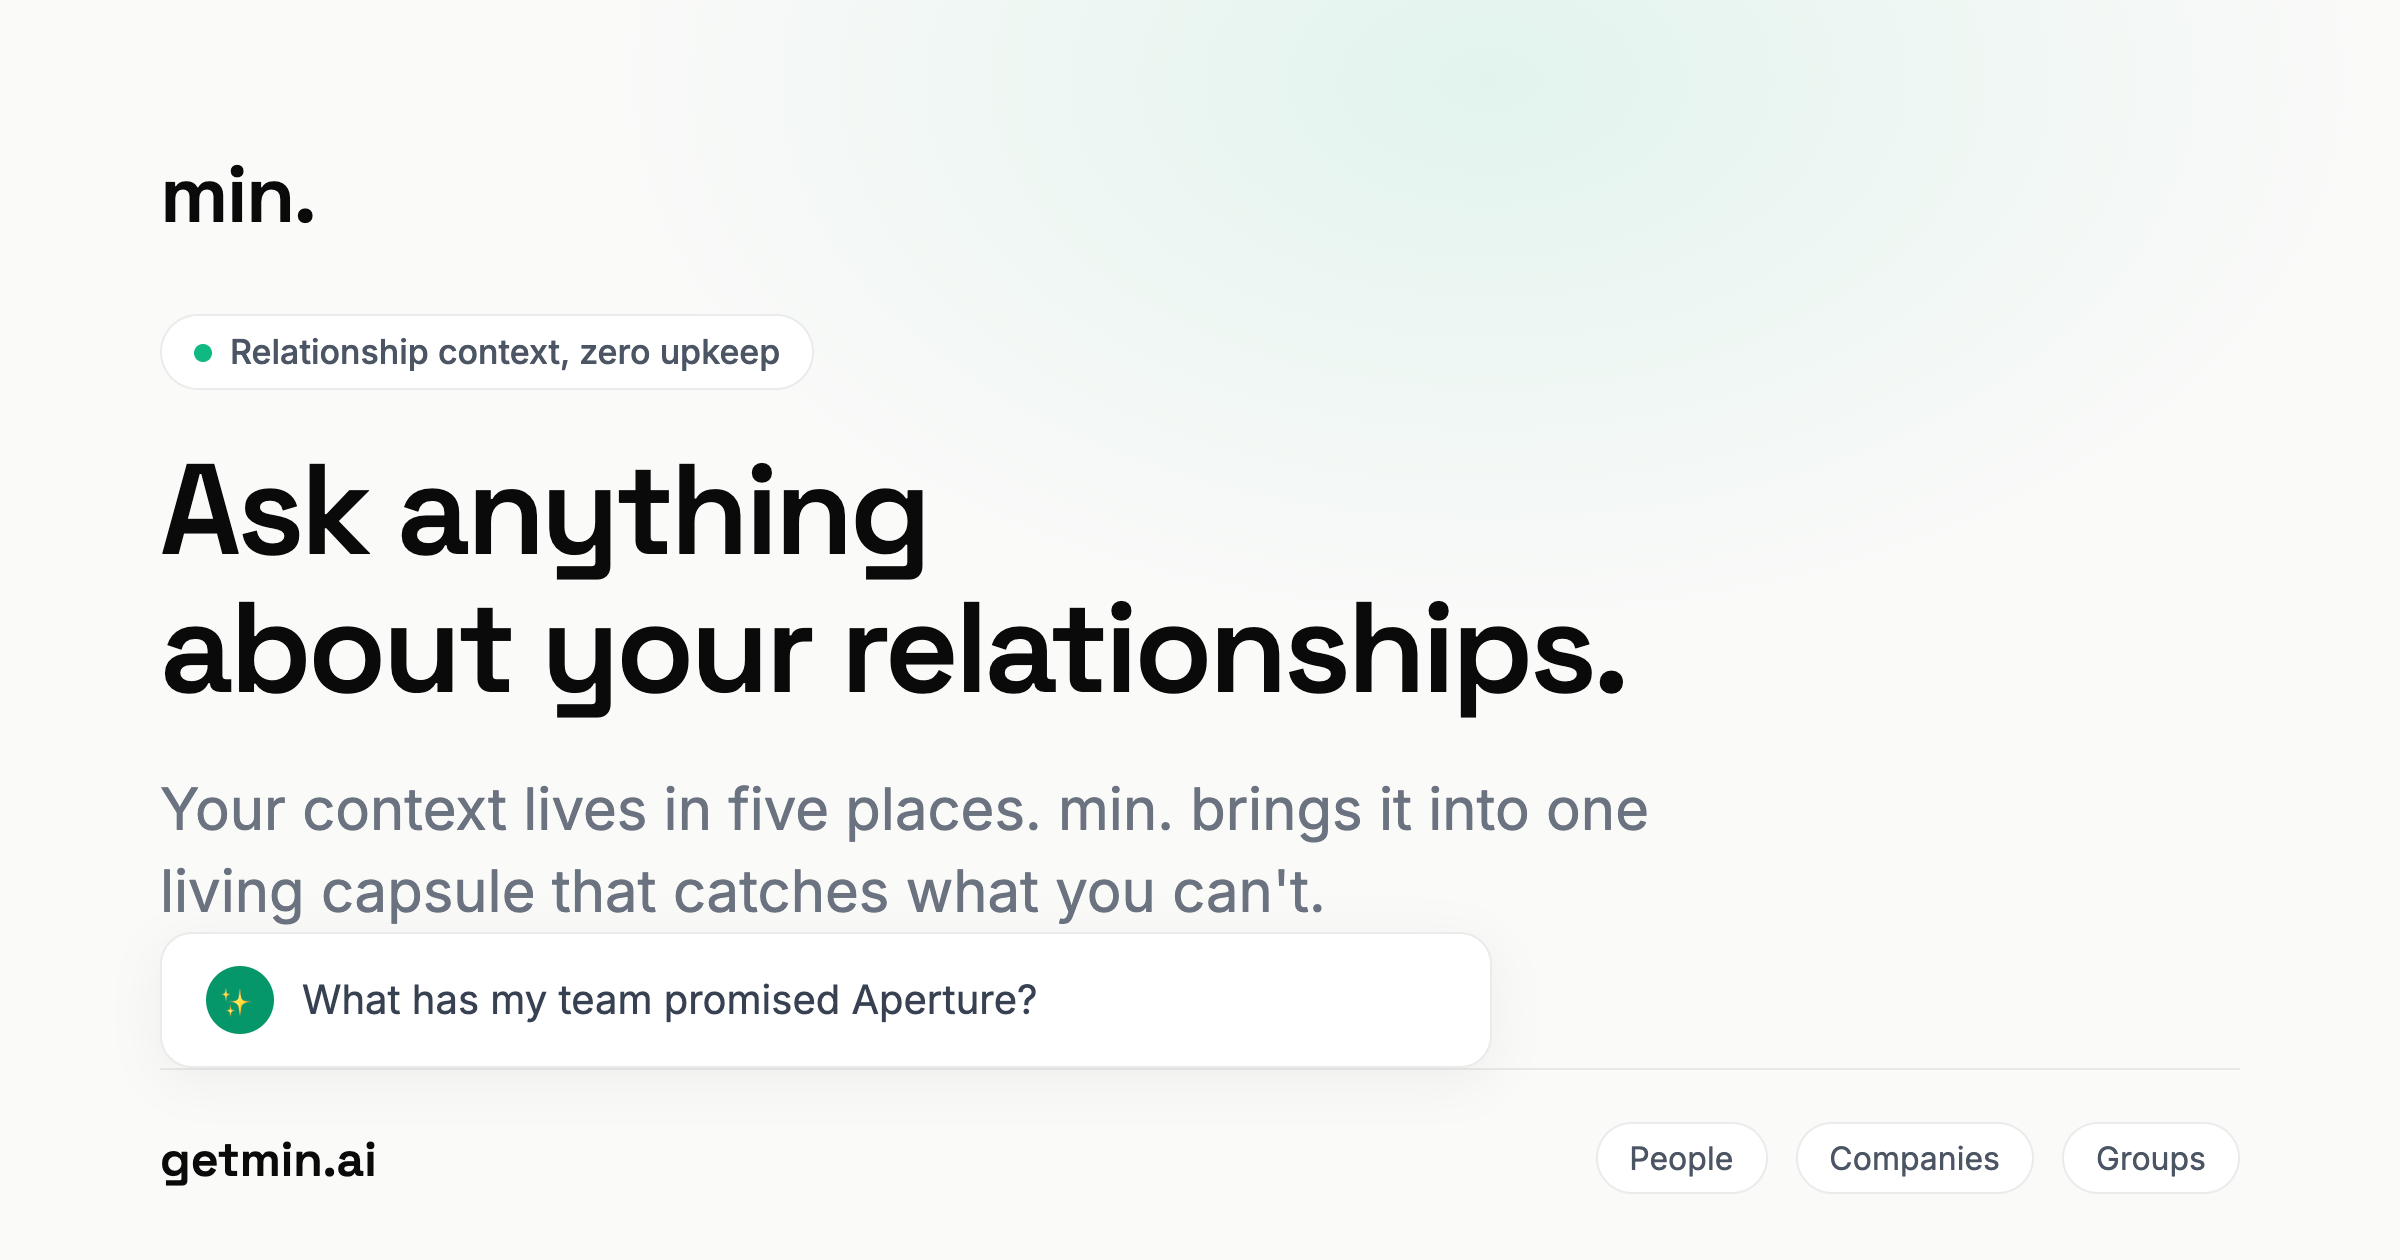
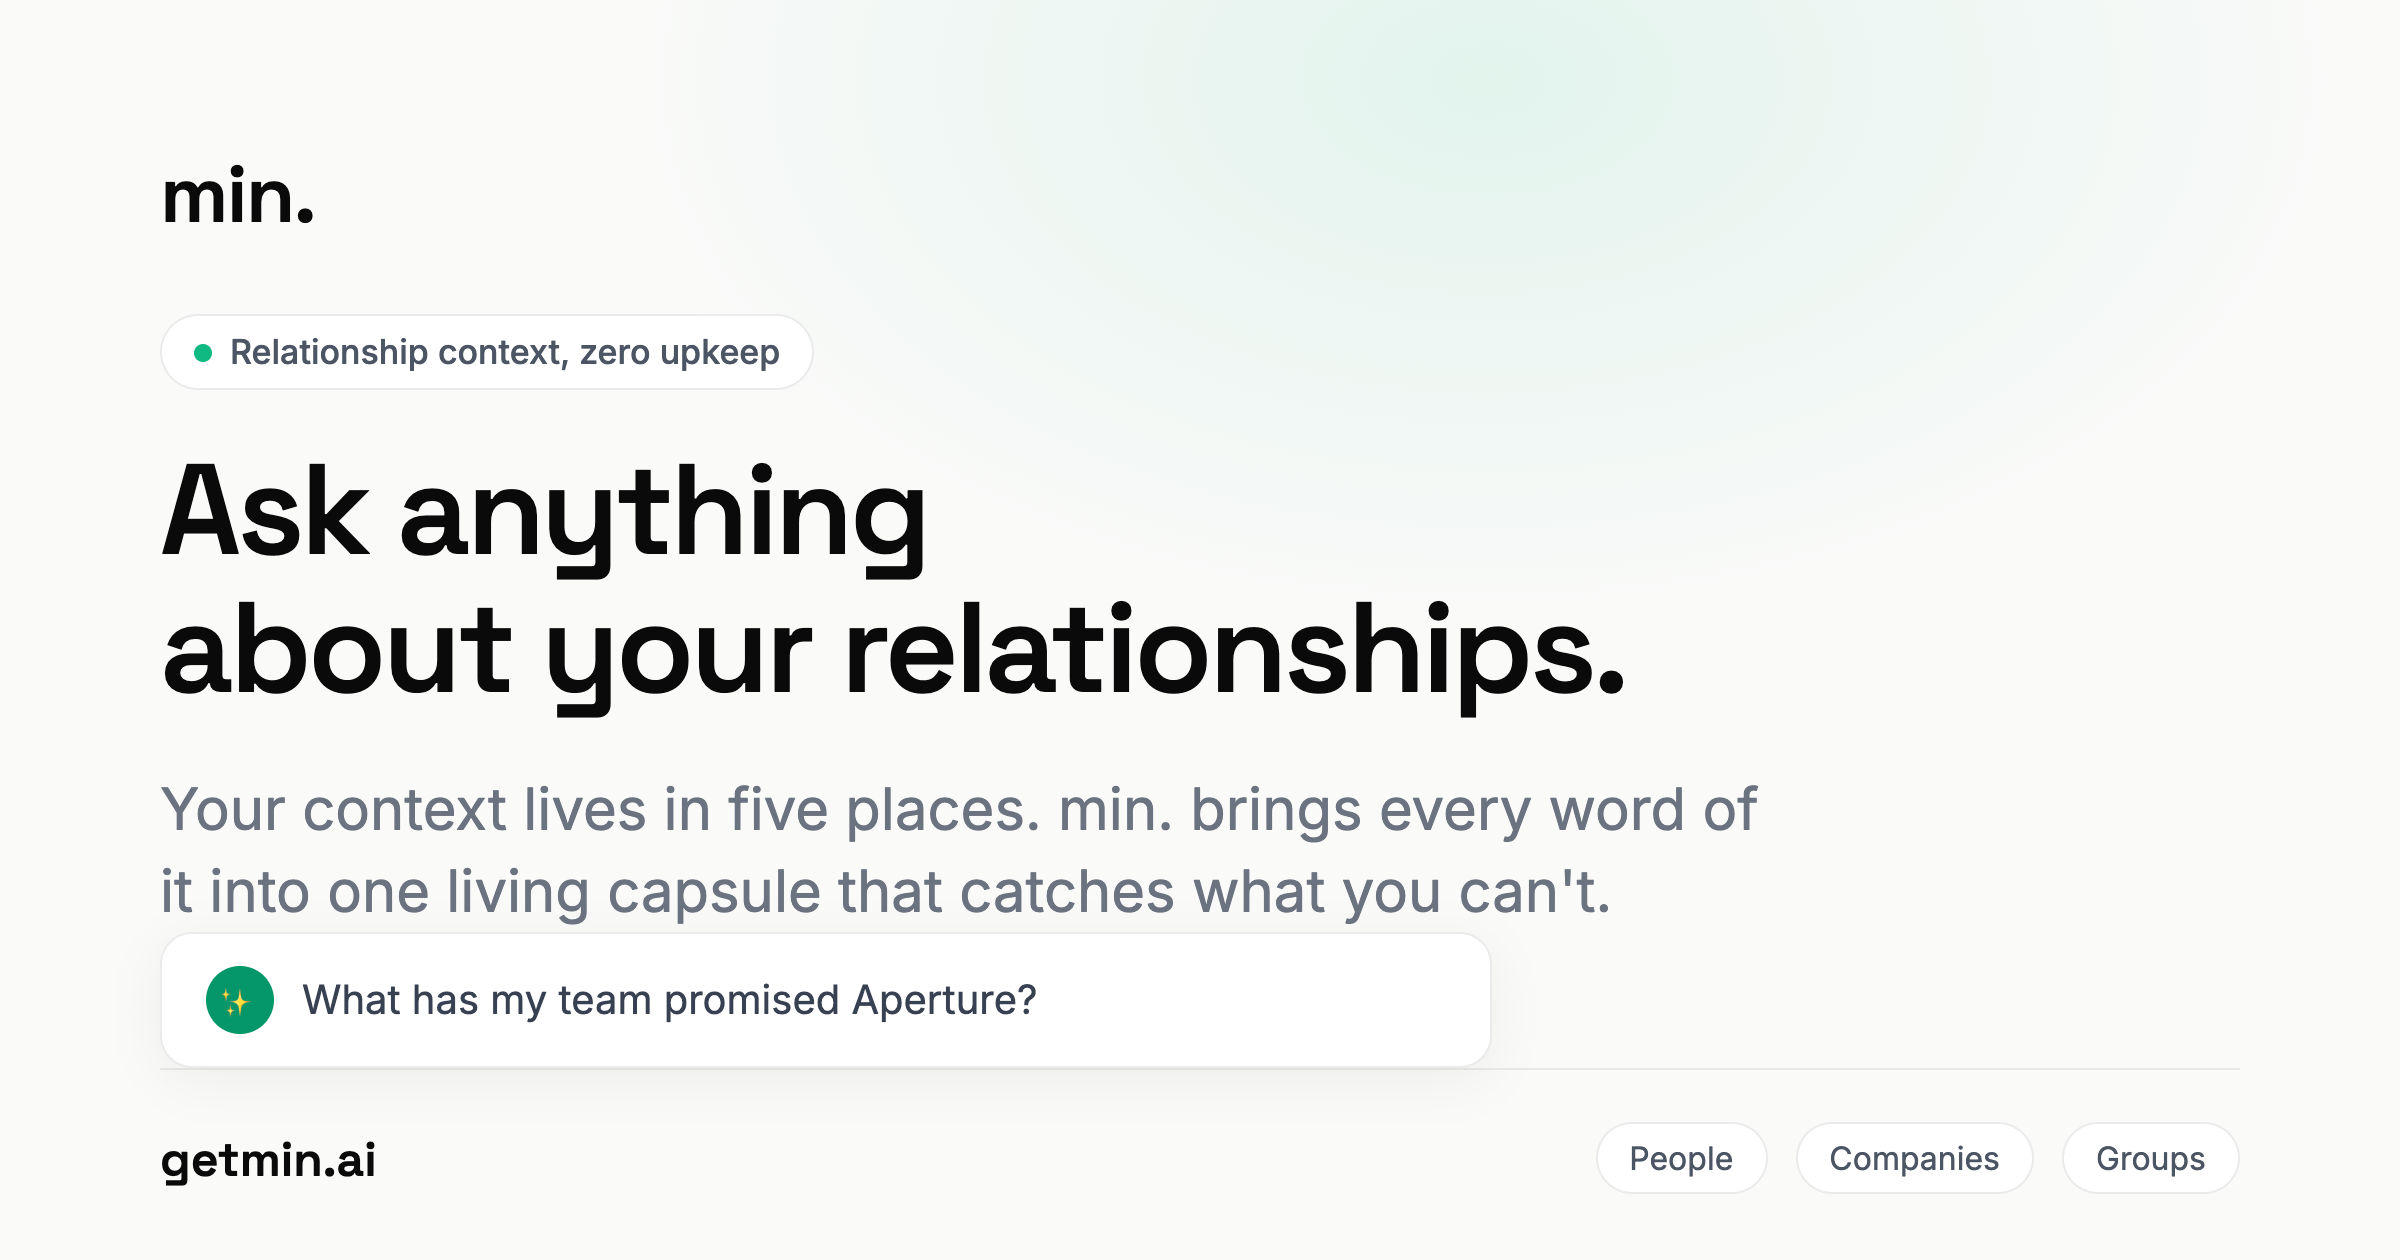
Hero sub: every word of it
"About your relationships" read as relationship status; the product holds
the contents, everything ever said. Two words in the sub make the claim
explicit: "min. brings every word of it into one living capsule that
catches what you can't." OG card re-rendered to match.

Changed region(s): [[0.0625, 0.619, 0.75, 0.7429]]

diff --git a/src/components/landing/LandingHero.tsx b/src/components/landing/LandingHero.tsx
@@ -30,8 +30,9 @@ export default function LandingHero() {
           <FadeIn delay={0.18}>
             <p className="mx-auto mt-6 max-w-xl text-[17px] leading-relaxed text-gray-500 lg:mx-0">
               Your context on anyone lives in five places: calls, email,
-              calendar, notetakers, and your teammates' heads. min. brings it
-              into one living capsule that catches what you can't.
+              calendar, notetakers, and your teammates' heads. min. brings
+              every word of it into one living capsule that catches what you
+              can't.
             </p>
           </FadeIn>
 

diff --git a/public/og-image.html b/public/og-image.html
@@ -153,7 +153,7 @@
                     about your relationships.
                 </div>
                 <div class="subheadline">
-                    Your context lives in five places. min. brings it into one living capsule that catches what you can't.
+                    Your context lives in five places. min. brings every word of it into one living capsule that catches what you can't.
                 </div>
             </div>
 
